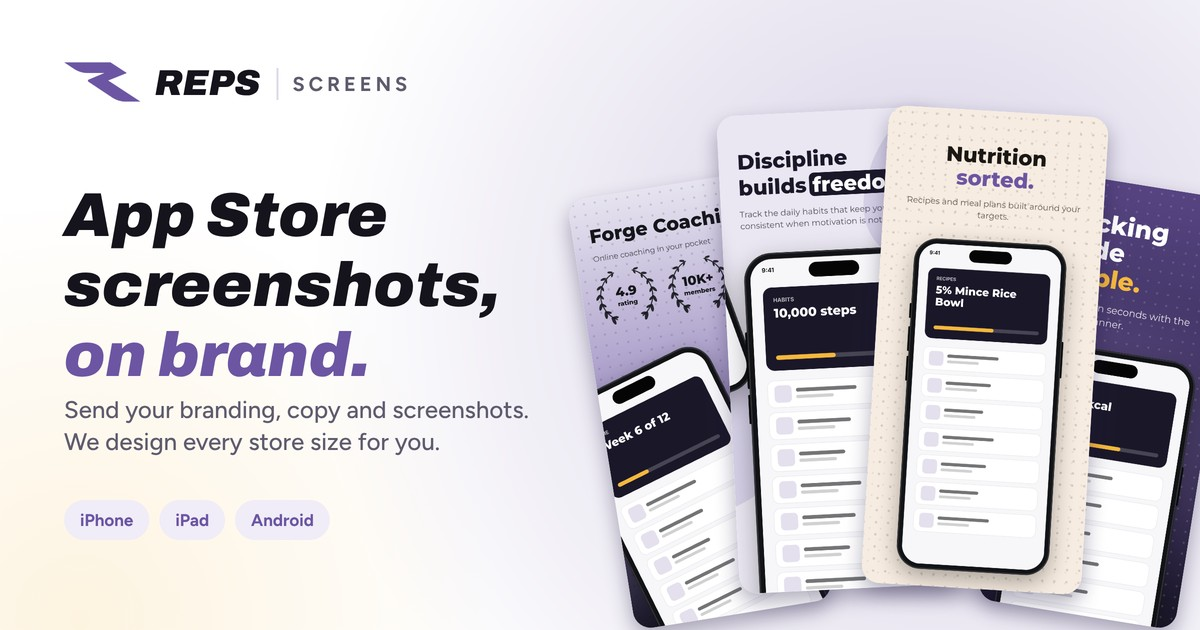
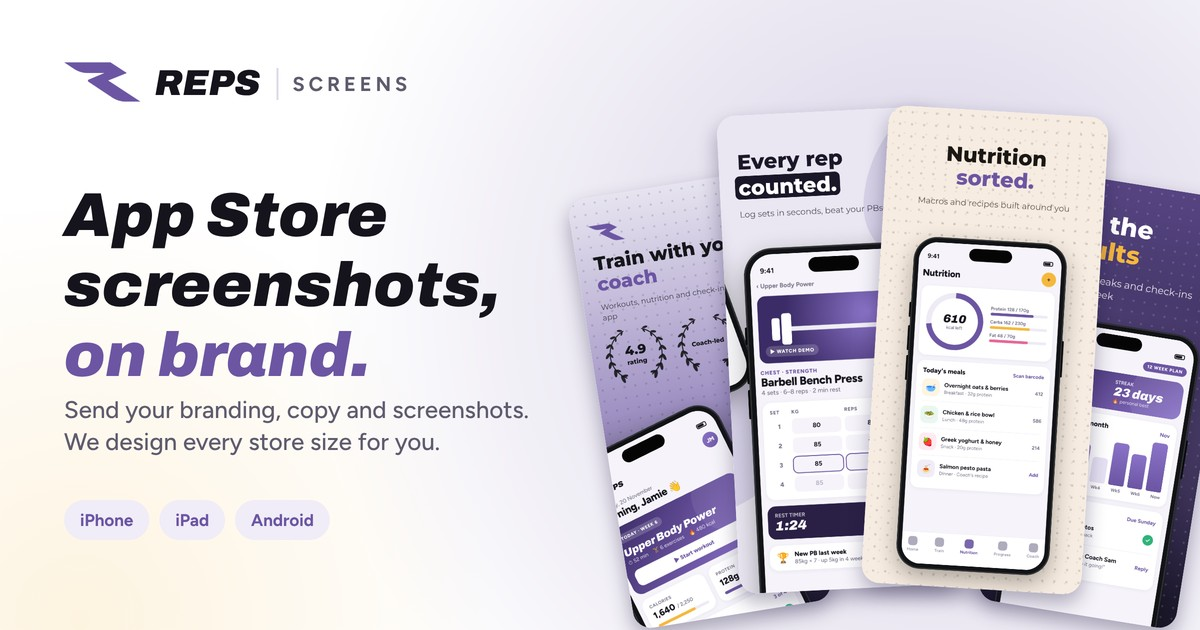
Share image: Reps-branded fitness app screens in the mockups
The phone mockups now show four Reps app screens (home, workout,
nutrition, progress) instead of placeholders. Cache-busted to v=3.

Claude-Session: https://claude.ai/code/session_01Wv5LF7PxmDUuNEcTgxmV8V

diff --git a/public/admin/index.html b/public/admin/index.html
@@ -11,12 +11,12 @@
 <meta property="og:title" content="Reps Screens Studio">
 <meta property="og:description" content="Send Reps everything needed to design your App Store and Google Play screenshots.">
 <meta property="og:url" content="https://screens.repshealthgrowth.com/admin/">
-<meta property="og:image" content="https://screens.repshealthgrowth.com/assets/og-image.jpg?v=2">
+<meta property="og:image" content="https://screens.repshealthgrowth.com/assets/og-image.jpg?v=3">
 <meta property="og:image:width" content="1200">
 <meta property="og:image:height" content="630">
 <meta property="og:image:alt" content="Reps Screens: App Store screenshots, on brand.">
 <meta name="twitter:card" content="summary_large_image">
-<meta name="twitter:image" content="https://screens.repshealthgrowth.com/assets/og-image.jpg?v=2">
+<meta name="twitter:image" content="https://screens.repshealthgrowth.com/assets/og-image.jpg?v=3">
 <link rel="preconnect" href="https://fonts.googleapis.com">
 <link rel="preconnect" href="https://fonts.gstatic.com" crossorigin>
 <link rel="stylesheet" href="https://fonts.googleapis.com/css2?family=Montserrat:wght@400;700;800&family=Poppins:wght@400;700&family=DM+Sans:wght@400;700&family=Archivo+Black&family=Bebas+Neue&family=Oswald:wght@700&family=Playfair+Display:wght@800&family=Figtree:wght@400;500;600;700&family=Archivo:ital,wght@1,800;1,900&display=swap">

diff --git a/public/index.html b/public/index.html
@@ -10,12 +10,12 @@
 <meta property="og:title" content="Reps Screens Brief">
 <meta property="og:description" content="Send Reps everything needed to design your App Store and Google Play screenshots.">
 <meta property="og:url" content="https://screens.repshealthgrowth.com/">
-<meta property="og:image" content="https://screens.repshealthgrowth.com/assets/og-image.jpg?v=2">
+<meta property="og:image" content="https://screens.repshealthgrowth.com/assets/og-image.jpg?v=3">
 <meta property="og:image:width" content="1200">
 <meta property="og:image:height" content="630">
 <meta property="og:image:alt" content="Reps Screens: App Store screenshots, on brand.">
 <meta name="twitter:card" content="summary_large_image">
-<meta name="twitter:image" content="https://screens.repshealthgrowth.com/assets/og-image.jpg?v=2">
+<meta name="twitter:image" content="https://screens.repshealthgrowth.com/assets/og-image.jpg?v=3">
 <meta name="description" content="Send Reps everything needed to design your App Store and Google Play screenshots.">
 <link rel="preconnect" href="https://fonts.googleapis.com">
 <link rel="preconnect" href="https://fonts.gstatic.com" crossorigin>
